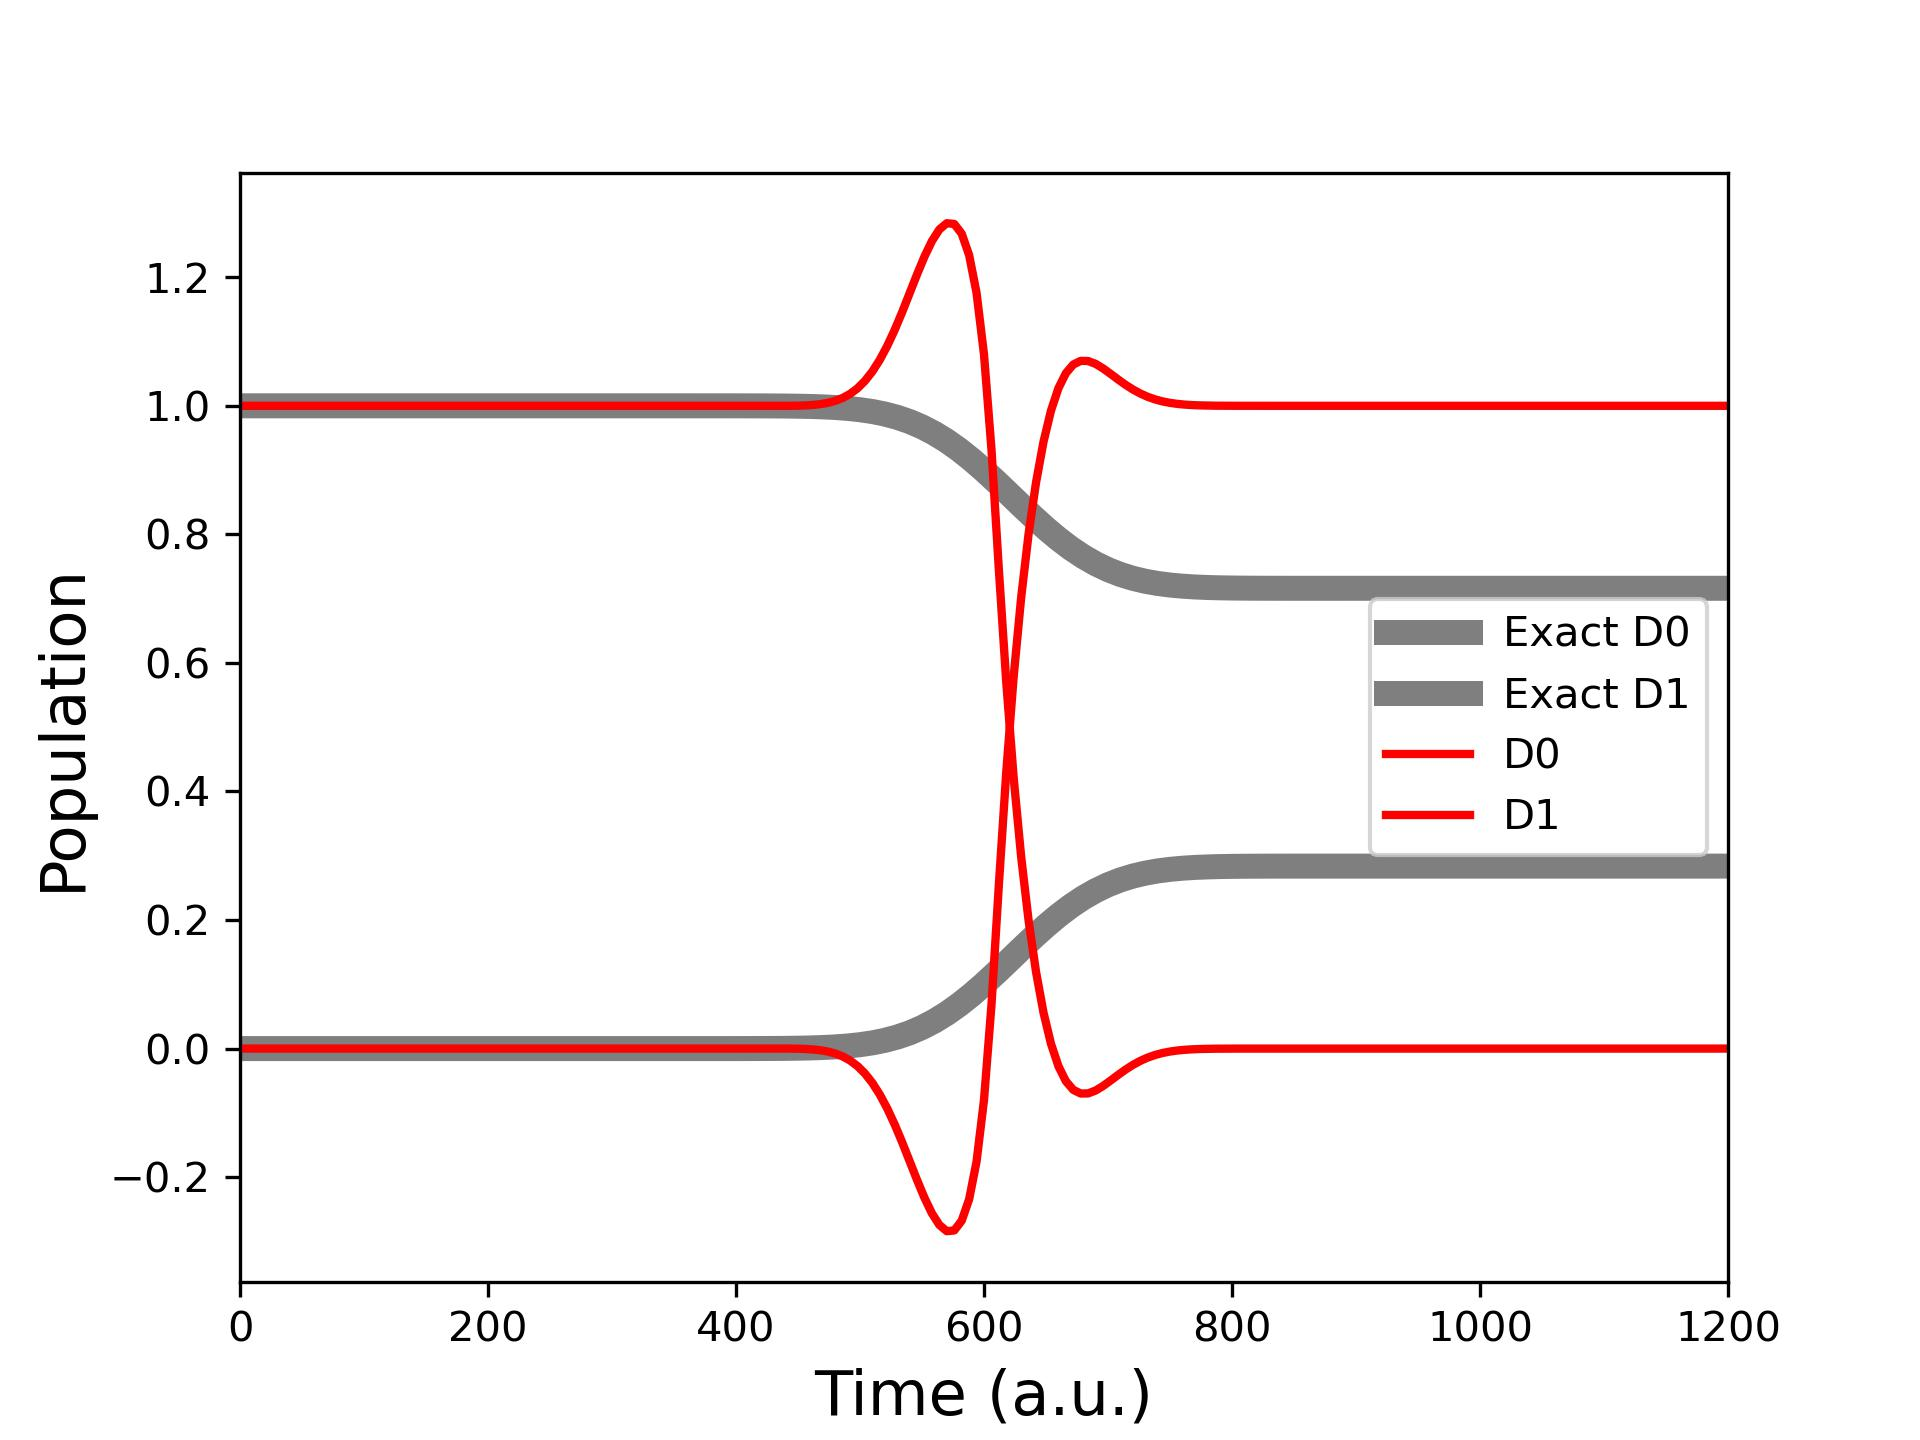
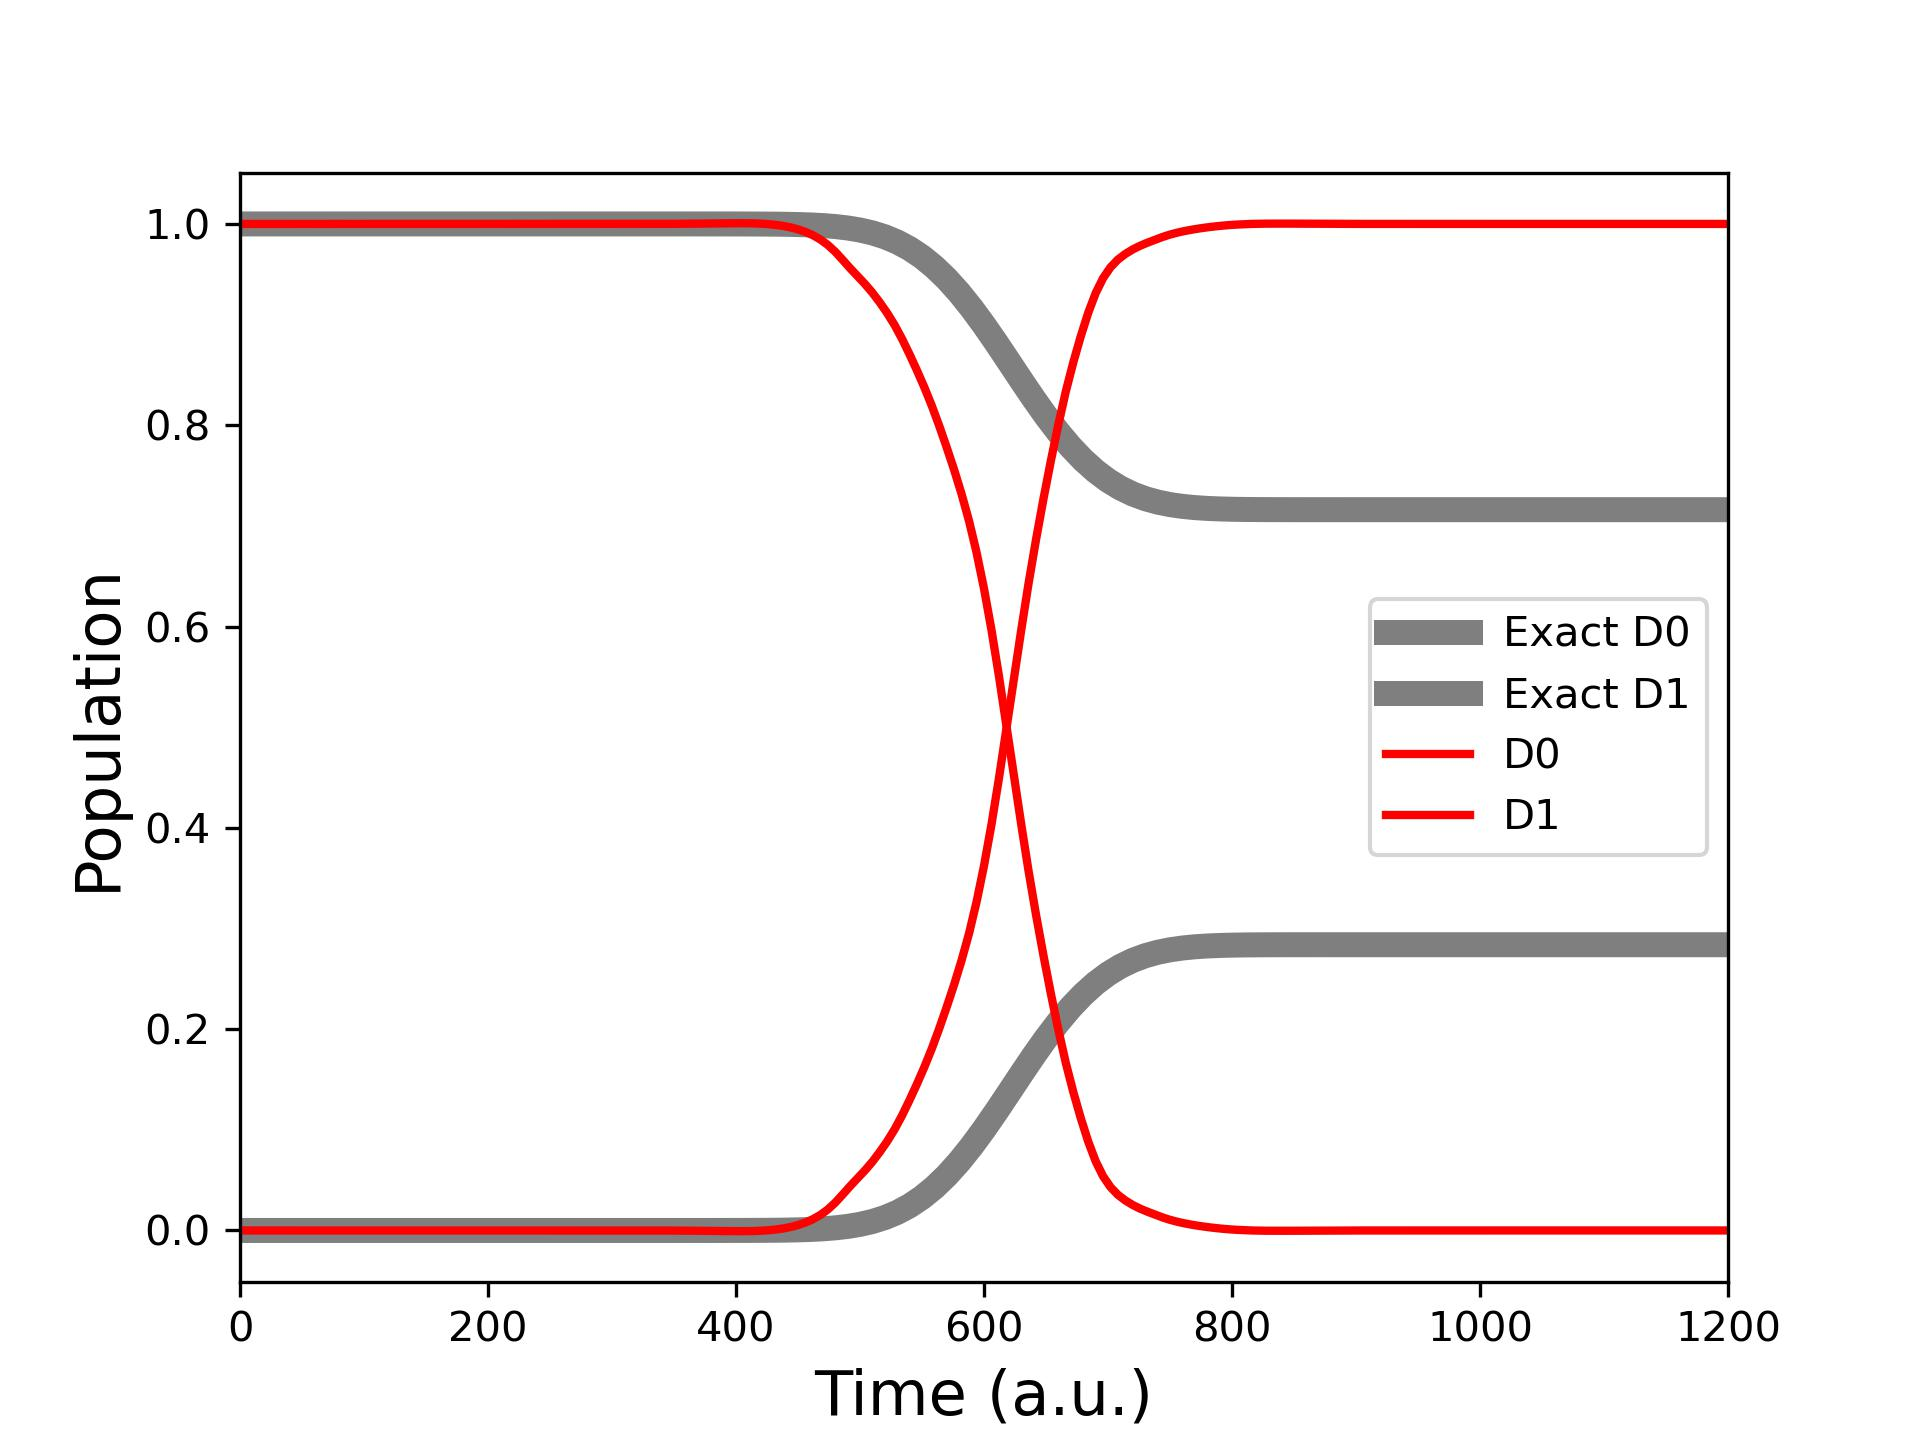
Divided rho's by NTraj

diff --git a/MASH.py b/MASH.py
@@ -152,7 +152,7 @@ def runTraj():
     rho_ensemble_dia = np.zeros((m.NStates,m.NStates,m.NStepsPrint+1), dtype=np.complex128)
     
     for itraj in range(m.NTraj): # repeat simulation for each trajectory
-        
+        print( itraj )
         # Initialize state and hop class objects
         sd0 = state_data() # state data before timestep propagation
         sd1 = state_data() # state data after timestep propagation
@@ -168,7 +168,7 @@ def runTraj():
         
         iskip = 0 # counting variable to determine when to store the current timestep data
         for t in range(m.NSteps): # single trajectory
-            print("t: ", t)
+            #print("t: ", t)
             
             # Save output variables
             if(t % m.NSkip == 0):
@@ -191,7 +191,7 @@ def runTraj():
         
     # Return output variables
     time = np.linspace( 0.0, m.NSteps * m.dtF, m.NStepsPrint+1 )
-    return time, active_state, psi_ad, rho_ensemble_ad, psi_dia, rho_ensemble_dia
+    return time, active_state, psi_ad, rho_ensemble_ad/m.NTraj, psi_dia, rho_ensemble_dia/m.NTraj
 
 
 

diff --git a/model.py b/model.py
@@ -11,9 +11,9 @@ import copy
 ### Parameters ###
 initState   = 0 # initial state
 totalTime   = 1200 # total amount of simulation time
-dtF         = 0.1 # full timestep 
+dtF         = 2 # full timestep 
 NSteps      = int(totalTime/dtF) # number of full steps in the simulation
-NTraj       = 1
+NTraj       = 100 # number of trajectories
 NStepsPrint = 200 # number of full steps that are stored/printed/outputed
 NSkip       = int(NSteps/NStepsPrint) # used to enforce NStepsPrint
 
